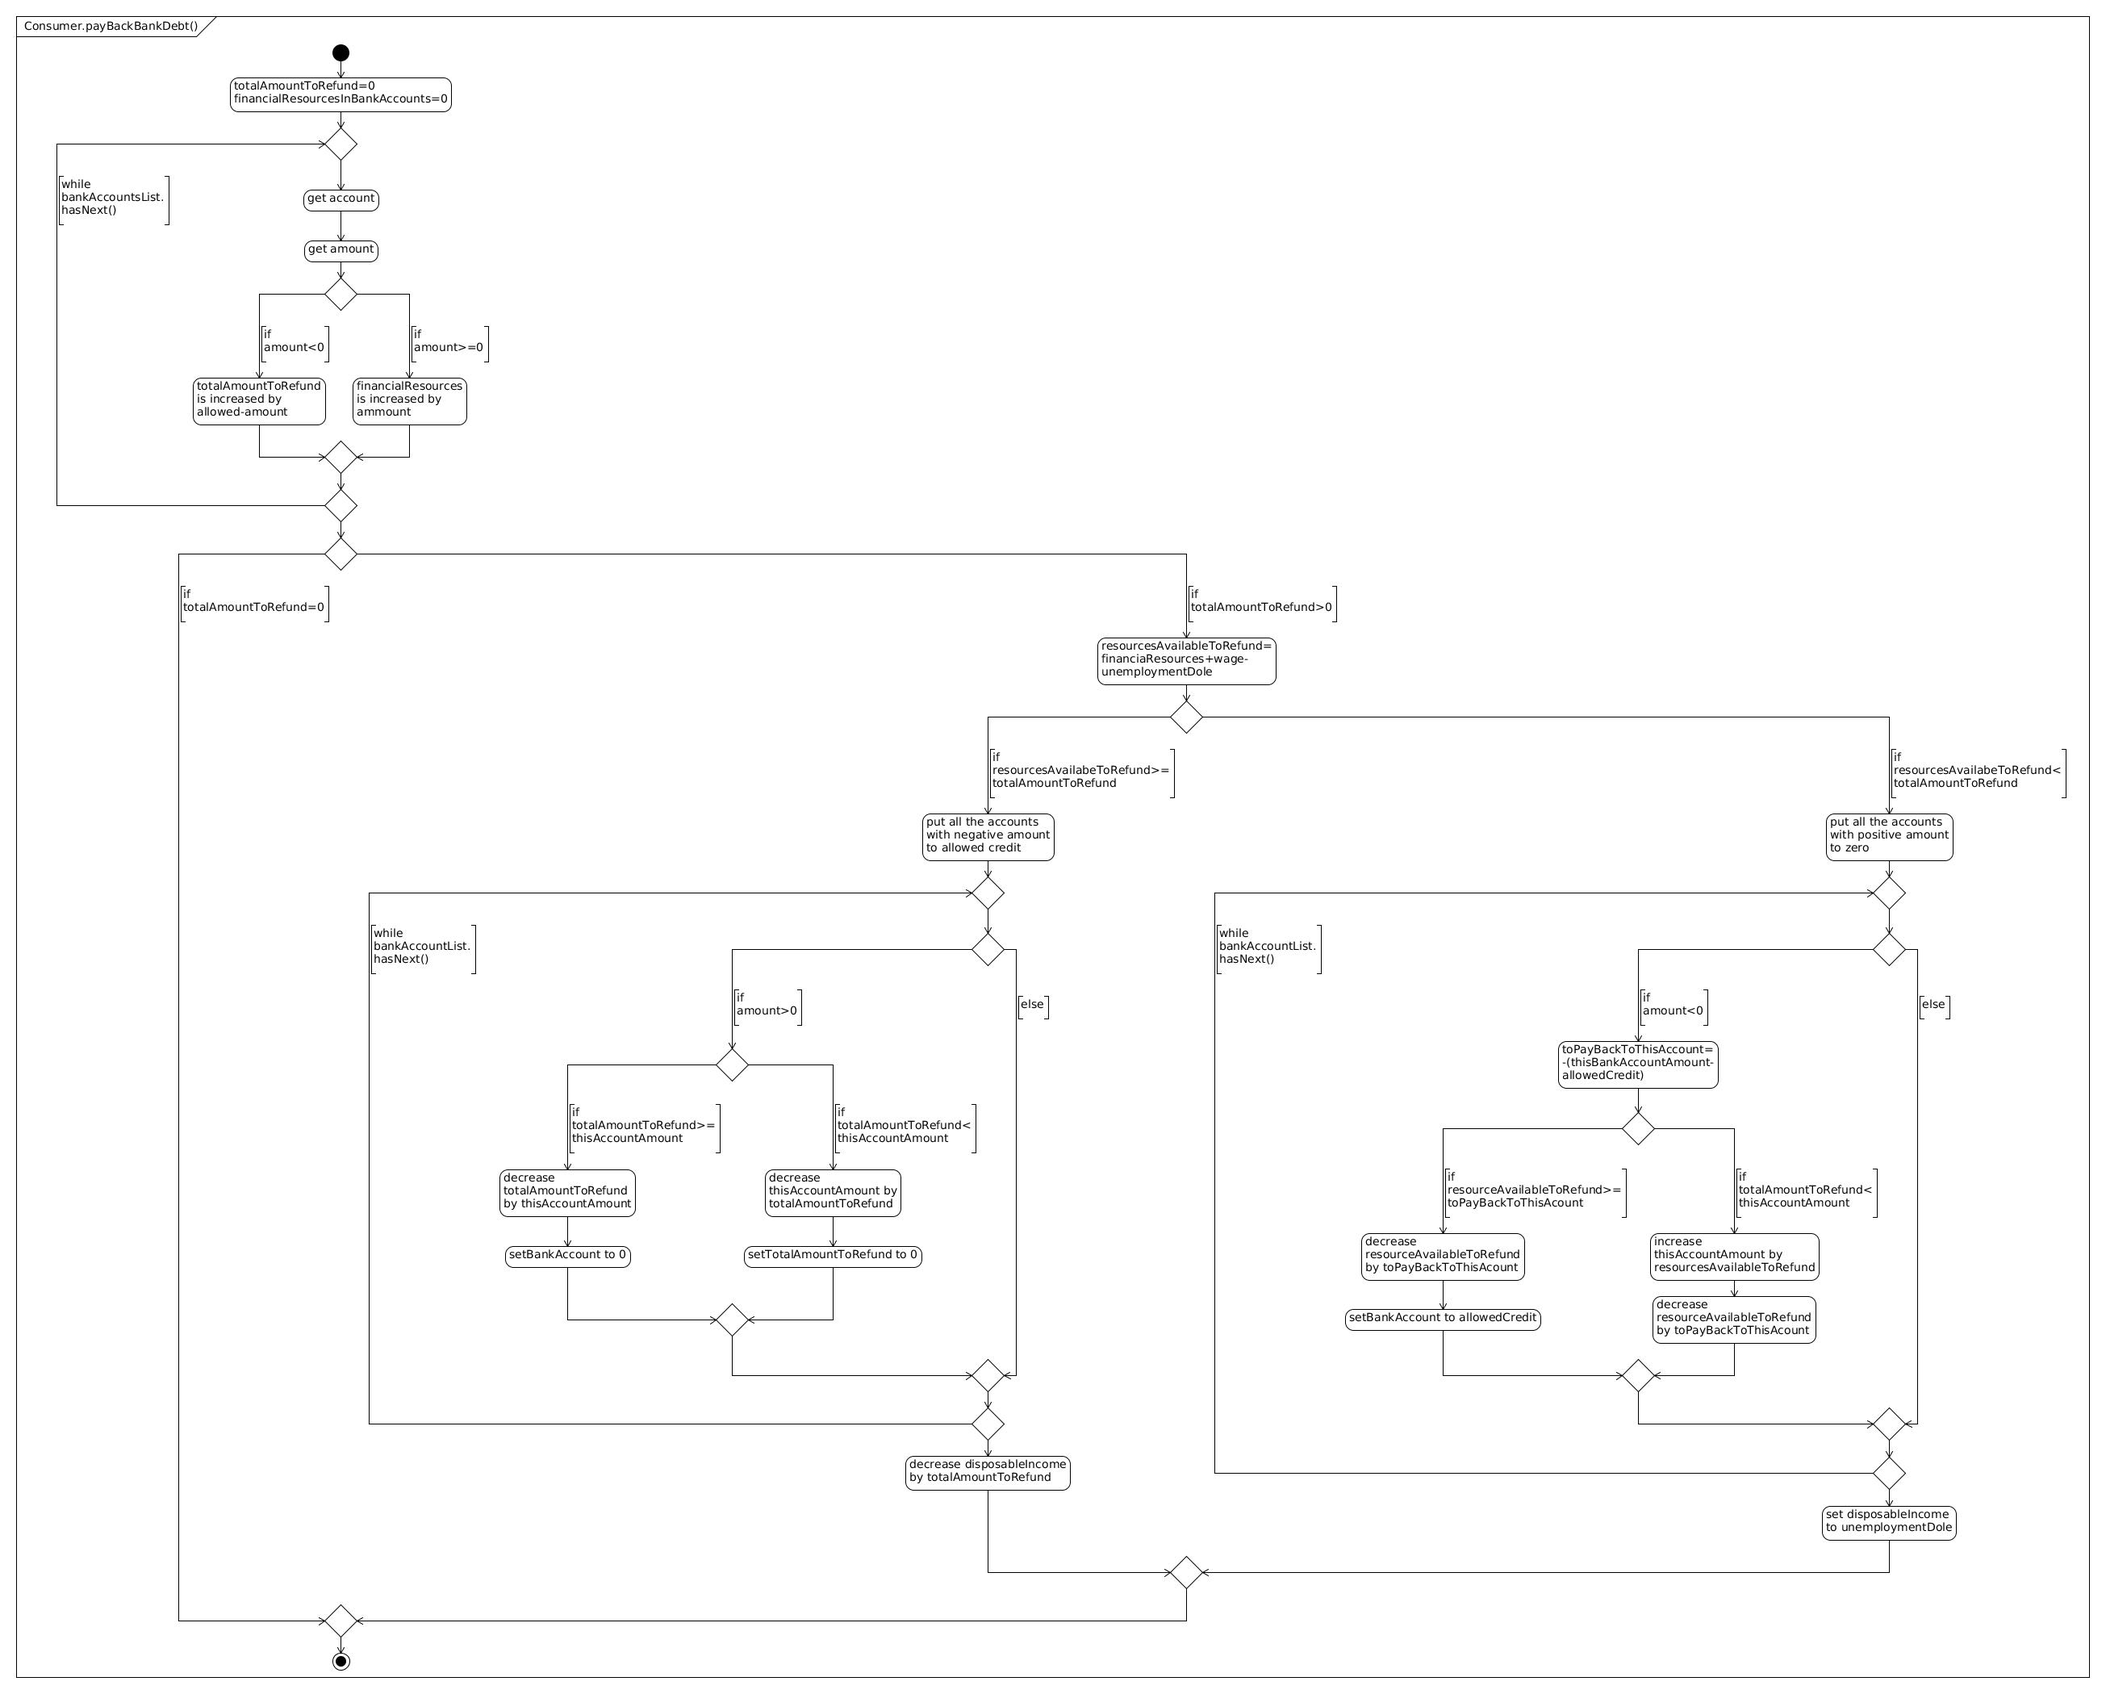
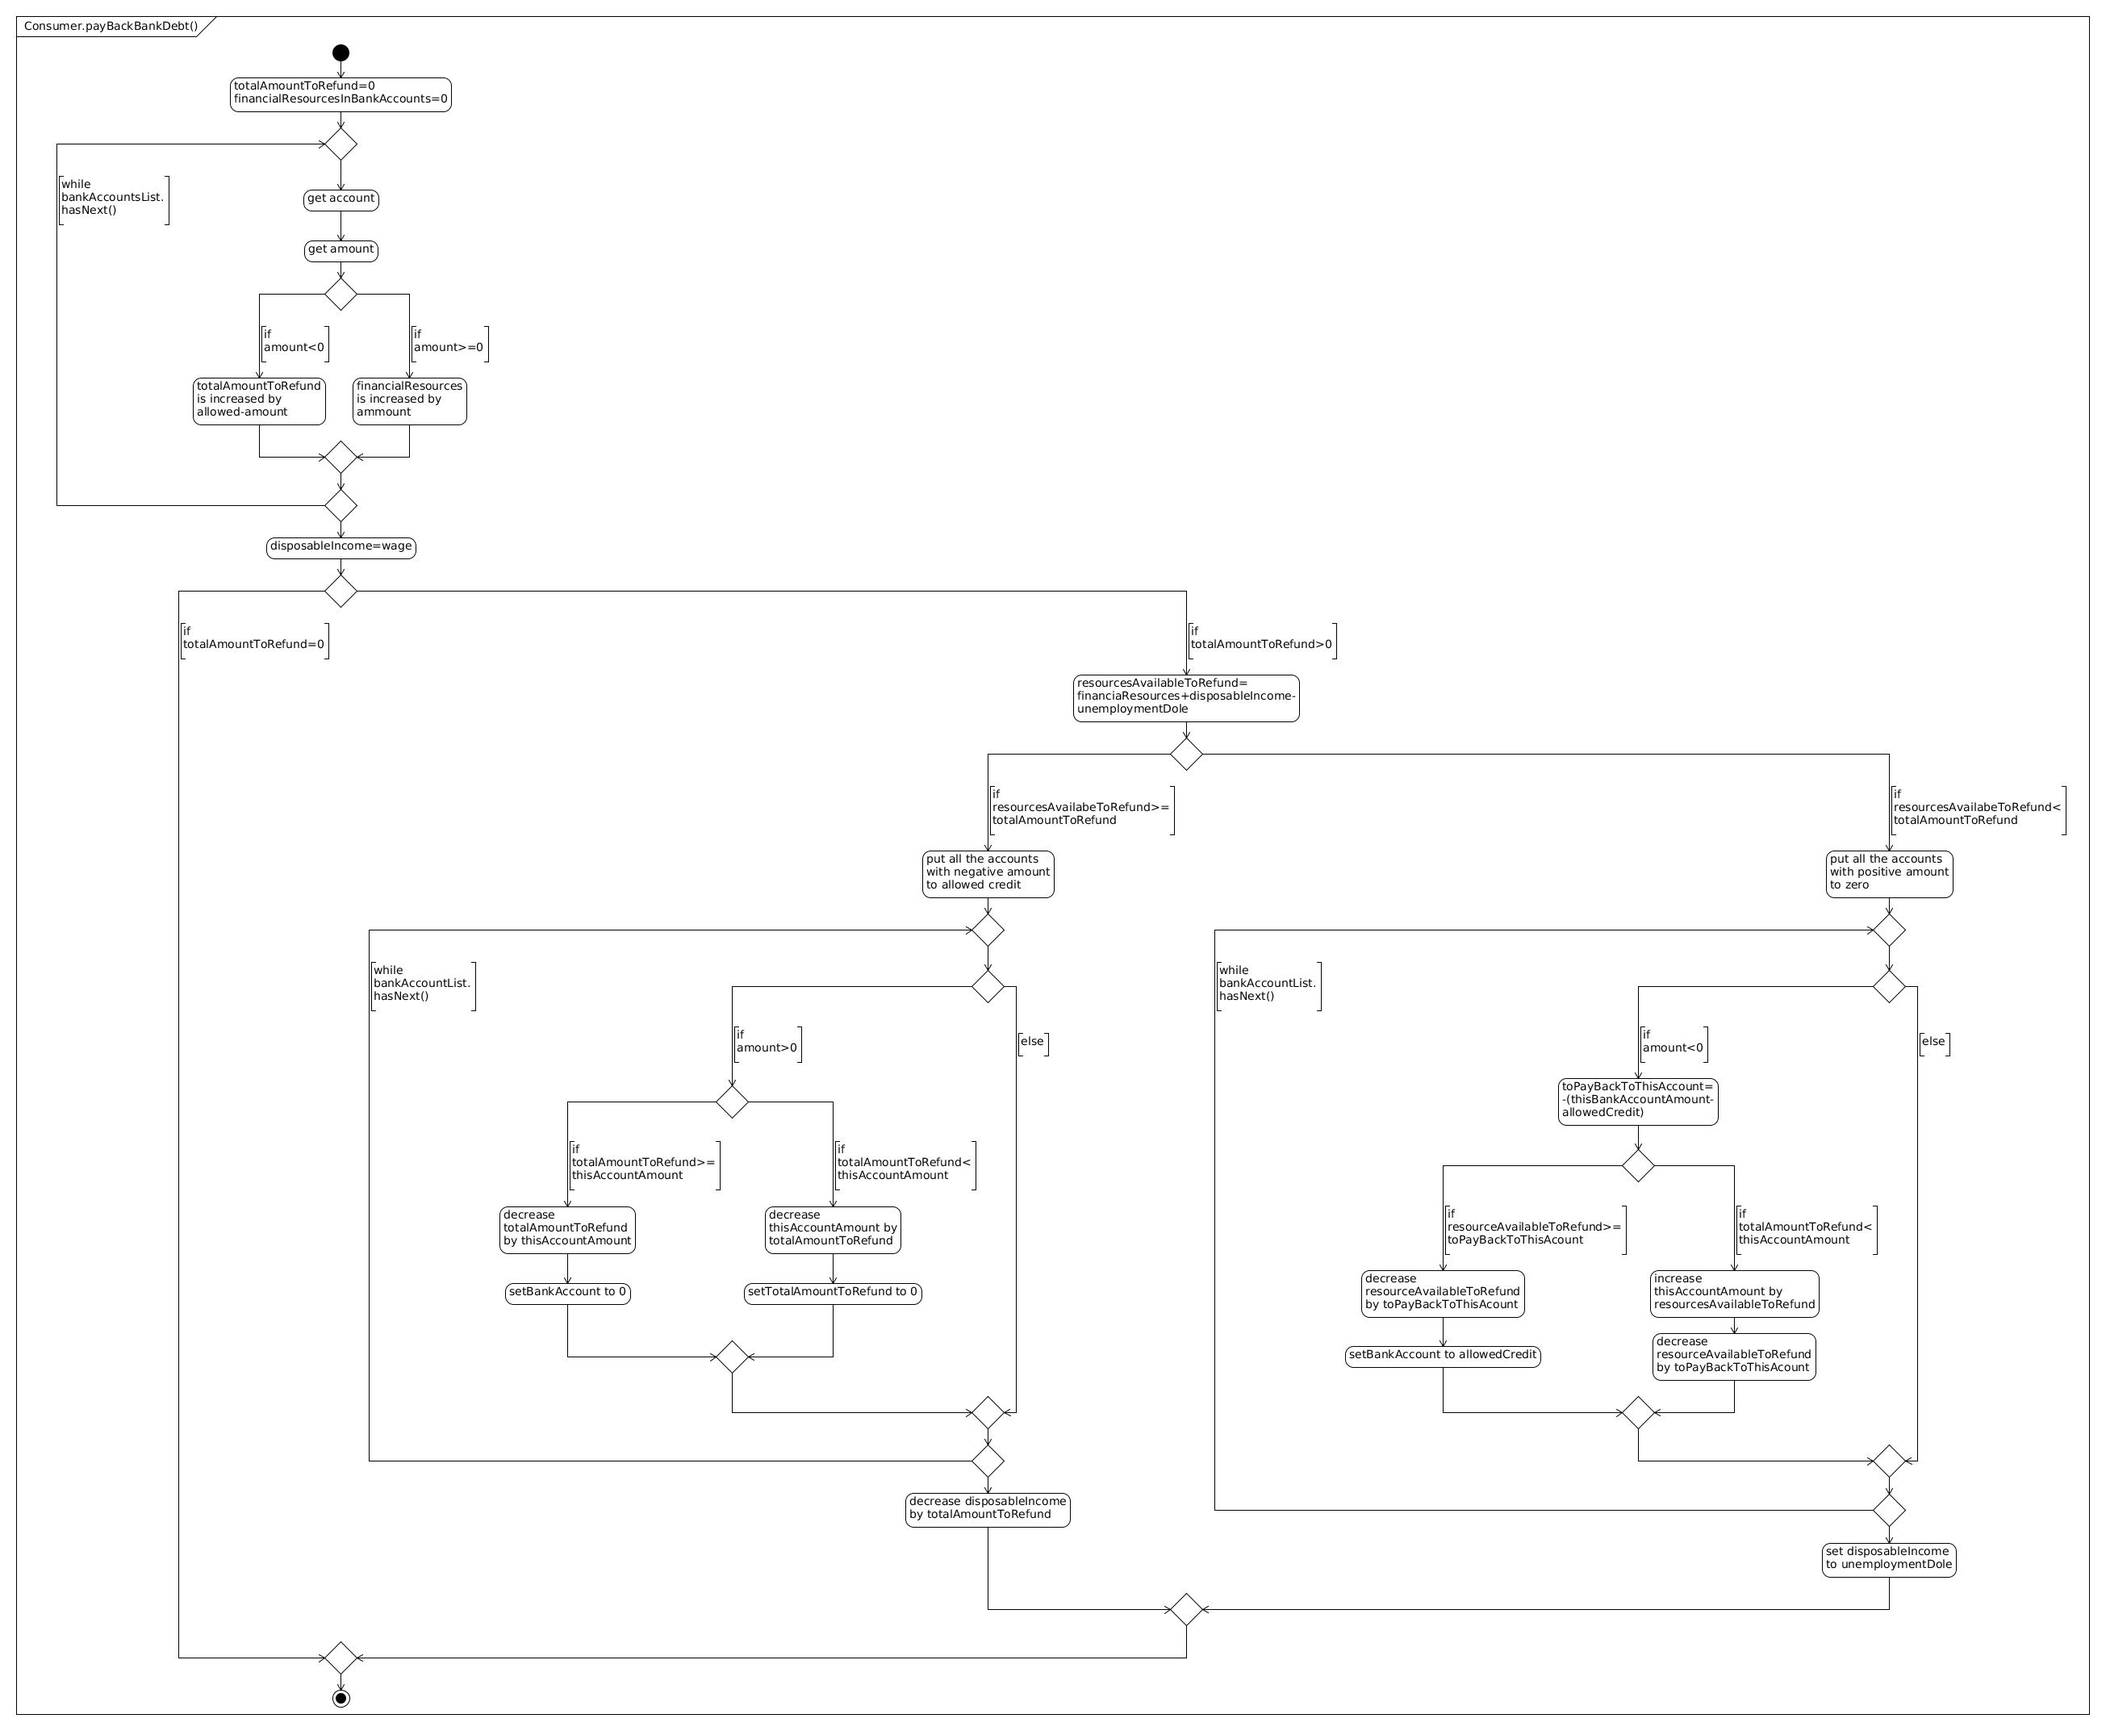
per il rapporto banche imprese è stata adottata la stessa strategia usata per i consumatori: programmato il metodo Bank.updateFirmsAccounts() e Firm.payBackBankDebt()

diff --git a/documentation/index.html b/documentation/index.html
@@ -29,7 +29,7 @@
 <tr>
 	<td><b>Consumers</b>: </td>
 	<td><a href="payBackBankDebt.html">payBackBankDebt </a></td>
-	<td>In the previus steps banks can ask to reduce debt. Consumers pay back with their income or their positive bank account. Consumers that have no enough resouces are bailouted. </td>
+	<td>In the previus steps banks can ask to reduce debt. Now, consumers pay back with their income or their positive bank account. Consumers that have no enough resouces are bailouted. </td>
 </tr>
 <tr>
 	<td><b>Bank</b>: </td>
@@ -88,8 +88,18 @@
 </tr>
 <tr>
 	<td><b>Firms</b> </td>
-	<td><a href="computeEconomicResultAndcapitalDepreciation.html">computeEconomicResultAndCapitalDepreciation</a> </td>
+	<td><a href="computeEconomicResultAndCapitalDepreciation.html">computeEconomicResultAndCapitalDepreciation</a> </td>
 	<td>compute cashOnHand as the difference of production an wages. </td>
+</tr>
+<tr>
+	<td><b>Banks</b> </td>
+	<td><a href="updateFirmsAccounts.html">updateFirmsAccounts</a> </td>
+	<td>interest and refund. </td>
+</tr>
+<tr>
+	<td><b>Firms</b> </td>
+	<td><a href="firms_payBackBankDebt.html">payBackBankDebt</a> </td>
+	<td>firms refund debt. </td>
 </tr>
 <tr>
 	<td><b>(TBD) Firms</b> </td>
@@ -108,13 +118,18 @@
 </tr>
 <tr>
 	<td><b>Banks </b> </td>
-	<td><a href="setAllowedFirmsCredit">setAllowedFirmsCredit</a> </td>
+	<td><a href="setAllowedFirmsCredit.html">setAllowedFirmsCredit</a> </td>
 	<td>random for now</td>
 </tr>
 <tr>
 	<td><b>Firms </b> </td>
 	<td><a href="adjustProductionCapitalAndBankAccount.html">adjustProductionCapitalAndBankAccount</a> </td>
 	<td>adjust production capital accordin to the allowed credit. Excess cashOnHand increase bank account. If firms cannot refund when asked by banks we have bad debt.</td>
+</tr>
+<tr>
+	<td><b>Firms </b> </td>
+	<td><a href="buyNewProductionCapital.html">buyNewProductionCapital</a> </td>
+	<td></td>
 </tr>
 <tr>
 	<td><b>Firms</b> </td>
@@ -143,7 +158,7 @@
 </tr>
 <tr>
 	<td><b>OfficeForStatistics</b> </td>
-	<td><a href="activateLaborMarket.html">activate Office For Labor</a> </td>
+	<td><a href="activateLaborMarket.html">activateOfficeForLabor</a> </td>
 	<td>The execution of this action depends on the model parametrization. If the previous action is active, this action aims at fulfilling further hiring unsatified by the direct hiring process. Else, The office for labor allocate unemployed people to firms' vacancies.</td>
 </tr>
 <tr>

diff --git a/documentation/computeEconomicResultAndCapitalDepreciation.html b/documentation/computeEconomicResultAndCapitalDepreciation.html
@@ -1,0 +1,12 @@
+<HTML>
+<HEAD>
+</HEAD>
+<BODY LANG="it-IT">
+
+<a href="index.html"> home </a>
+<p>
+<IMG SRC="computeEconomicResultAndCapitalDepreciation.jpg">
+<p>
+<a href="index.html"> home </a>
+
+</BODY>

diff --git a/documentation/firms_payBackBankDebt.html b/documentation/firms_payBackBankDebt.html
@@ -1,0 +1,12 @@
+<HTML>
+<HEAD>
+</HEAD>
+<BODY LANG="it-IT">
+
+<a href="index.html"> home </a>
+<p>
+<IMG SRC="firms_payBackBankDebt.jpg">
+<p>
+<a href="index.html"> home </a>
+
+</BODY>

diff --git a/documentation/setAllowedFirmsCredit.html b/documentation/setAllowedFirmsCredit.html
@@ -1,0 +1,12 @@
+<HTML>
+<HEAD>
+</HEAD>
+<BODY LANG="it-IT">
+
+<a href="index.html"> home </a>
+<p>
+<IMG SRC="setAllowedFirmsCredit.jpg">
+<p>
+<a href="index.html"> home </a>
+
+</BODY>

diff --git a/documentation/updateFirmsAccounts.html b/documentation/updateFirmsAccounts.html
@@ -1,0 +1,12 @@
+<HTML>
+<HEAD>
+</HEAD>
+<BODY LANG="it-IT">
+
+<a href="index.html"> home </a>
+<p>
+<IMG SRC="updateFirmsAccounts.jpg">
+<p>
+<a href="index.html"> home </a>
+
+</BODY>

diff --git a/documentation/allocateDemand.html b/documentation/allocateDemand.html
@@ -1,0 +1,12 @@
+<HTML>
+<HEAD>
+</HEAD>
+<BODY LANG="it-IT">
+
+<a href="index.html"> home </a>
+<p>
+<IMG SRC="allocateDemand.jpg">
+<p>
+<a href="index.html"> home </a>
+
+</BODY>

diff --git a/src/sfcabm/Firm.java b/src/sfcabm/Firm.java
@@ -402,6 +402,85 @@ public class Firm {
 	}
 
 
+		public void payBackBankDebt(){
+		double amountOfThisBankAccount,resourcesAvailableToRefund;
+		double totalAmountToRefund=0;
+		financialResourcesInBankAccounts=0;
+		for(int i=0;i<bankAccountsList.size();i++){
+			aBankAccount=(BankAccount)bankAccountsList.get(i);
+			amountOfThisBankAccount=aBankAccount.getAccount();
+			if(amountOfThisBankAccount<0){
+				totalAmountToRefund+=-(amountOfThisBankAccount-aBankAccount.getAllowedCredit());
+			}
+			else{
+				financialResourcesInBankAccounts+=amountOfThisBankAccount;
+			}
+		}
+		if(totalAmountToRefund>0){
+//		if(Context.verboseFlag){
+			System.out.println("     To refund "+totalAmountToRefund+" financial resource in bank accounts "+financialResourcesInBankAccounts+" cashOnHand "+cashOnHand);
+//		}
[1 lines of base64/hex data omitted]
+			if(resourcesAvailableToRefund>=totalAmountToRefund){
+				for(int i=0;i<bankAccountsList.size();i++){
+					aBankAccount=(BankAccount)bankAccountsList.get(i);
+					amountOfThisBankAccount=aBankAccount.getAccount();
+					if(amountOfThisBankAccount<0){
+						aBankAccount.setAccount(aBankAccount.getAllowedCredit());
+					}
+				}
+				for(int i=0;i<bankAccountsList.size();i++){
+					aBankAccount=(BankAccount)bankAccountsList.get(i);
+					amountOfThisBankAccount=aBankAccount.getAccount();
+					if(amountOfThisBankAccount>0){
+						if(totalAmountToRefund>=amountOfThisBankAccount){
+							totalAmountToRefund+=-amountOfThisBankAccount;
+							aBankAccount.setAccount(0);
+						}
+						else{
+							aBankAccount.setAccount(amountOfThisBankAccount-totalAmountToRefund);
+							totalAmountToRefund=0;
+						}
+					}
+				}
+				if(totalAmountToRefund>0){
+					cashOnHand+=-totalAmountToRefund;
+				}
+
+
+			}
+			else{
+				for(int i=0;i<bankAccountsList.size();i++){
+					aBankAccount=(BankAccount)bankAccountsList.get(i);
+					amountOfThisBankAccount=aBankAccount.getAccount();
+					if(amountOfThisBankAccount>0){
+						aBankAccount.setAccount(0);
+					}
+				}
+				for(int i=0;i<bankAccountsList.size();i++){
+					aBankAccount=(BankAccount)bankAccountsList.get(i);
+					amountOfThisBankAccount=aBankAccount.getAccount();
+					if(amountOfThisBankAccount<0){
+						double toPayBakToThisBankAccount=-(aBankAccount.getAccount()-aBankAccount.getAllowedCredit());
+						if(resourcesAvailableToRefund>toPayBakToThisBankAccount){
+							resourcesAvailableToRefund+=-toPayBakToThisBankAccount;
+							aBankAccount.setAccount(aBankAccount.getAllowedCredit());
+						}
+						else{
+							aBankAccount.setAccount(aBankAccount.getAccount()+resourcesAvailableToRefund);
+							//							resourcesAvailableToRefund=0;
+							resourcesAvailableToRefund+=-toPayBakToThisBankAccount;
+						}
+					}
+				}
+			}
+//		if(Context.verboseFlag){
+			System.out.println("     totalAmountToRefund "+totalAmountToRefund+" resourcesAvailableToRefund "+resourcesAvailableToRefund+" cashOnHand "+cashOnHand);
+//		}
+		}
+}
+
+
 		//compute average productivity for each degree of education
 	public void computeAverageProductivityForEachDegreeOfEducation(){
 			numberOfWokersInADegree=new int[7];

diff --git a/src/sfcabm/Bank.java b/src/sfcabm/Bank.java
@@ -139,6 +139,46 @@ public class Bank {
 		}
 	}
 
+	public void updateFirmsAccounts(){
+		double tmpAccount;
+		String tmpOwnerType;
+		for(int i=0;i<accountsList.size();i++){
+			aBankAccount=(BankAccount)accountsList.get(i);
+			tmpAccount=aBankAccount.getAccount();
+			tmpOwnerType=aBankAccount.getOwnerType();
+			if(tmpOwnerType=="firm"){
+				if(tmpAccount>0){
+						if(Context.verboseFlag){
+						System.out.println("     "+tmpOwnerType+": account "+tmpAccount+" interst rate +"+Context.interestRateOnDeposits);
+						}
+					aBankAccount.setAccount(tmpAccount*(1+Context.interestRateOnDeposits));
+				}
+				else{
+						if(Context.verboseFlag){
+						System.out.println("     "+tmpOwnerType+": account "+tmpAccount+" interst rate -"+Context.interestRateOnLoans);
+						}
+							aBankAccount.setAccount(tmpAccount*(1+Context.interestRateOnLoans));
+							if(RandomHelper.nextDouble()>0.5){
+								if(Context.verboseFlag){
+									System.out.println("     refund not asked");
+								}
+								aBankAccount.setAllowedCredit(aBankAccount.getAccount());
+							}
+							else{
+								if(Context.verboseFlag){
+									System.out.println("     refund asked");
+								}
+								aBankAccount.setAllowedCredit(aBankAccount.getAccount()*0.9);
+							}
+				}
+	
+			}
+		}
+
+	}
+
+
+
 	public void resetDemandedAndAllowedCredit(){
 		demandedCredit=0;
 		allowedCredit=0;

diff --git a/src/sfcabm/Context.java b/src/sfcabm/Context.java
@@ -14,7 +14,7 @@ import sfcabm.OfficeForStatistics;
 import sfcabm.Bank;
 
 public class Context implements ContextBuilder<Object> {
-	public static boolean verboseFlag=true;
+	public static boolean verboseFlag=false;
 		public static int NumConsumers = 10;
 		public static int NumFirms = 3;
 		public static int NumBanks = 1;
@@ -312,6 +312,23 @@ System.out.println("FIRMS COMPUTE ECONOMIC RESULT");
 //		}
 			contextAction=contextActionFactory.createActionForIterable(firmsList,"computeEconomicResultAndCapitalDepreciation",false);
 			contextAction.execute();
+
+//		if(verboseFlag){
+System.out.println("BANKS: UPDATE FIRMS ACCOUNTS");
+//		}
+
+			contextAction=contextActionFactory.createActionForIterable(banksList,"updateFirmsAccounts",false);
+			contextAction.execute();
+
+
+//		if(verboseFlag){
+System.out.println("FIRMS: PAY BACK BANK DEBT");
+//		}
+
+			contextAction=contextActionFactory.createActionForIterable(firmsList,"payBackBankDebt",false);
+			contextAction.execute();
+
+
 
 //if(verboseFlag){
 System.out.println("FIRMS COMPUTE DESIRED CAPITAL");

diff --git a/src/sfcabm/BankAccount.java b/src/sfcabm/BankAccount.java
@@ -53,9 +53,9 @@ public class BankAccount{
 	}
 	public void setAccount(double ac){
 		account=ac;
-		if(Context.verboseFlag){
+//		if(Context.verboseFlag){
 			System.out.println("     bank account "+account+" demanded credit "+demandedCredit+" "+ownerType);
-		}
+//		}
 	}
 
 	public void setDesiredCredit(double w, double dD){
@@ -74,9 +74,9 @@ public class BankAccount{
 	}
 	public void setAllowedCredit(double aC){
 		allowedCredit=aC;
-		if(Context.verboseFlag){
+//		if(Context.verboseFlag){
 			System.out.println("     bank account "+account+" demanded credit "+demandedCredit+" allowed "+allowedCredit+" "+ownerType);
-		}
+//		}
 	}
 
 	public void receiveDeposits(double dep){
